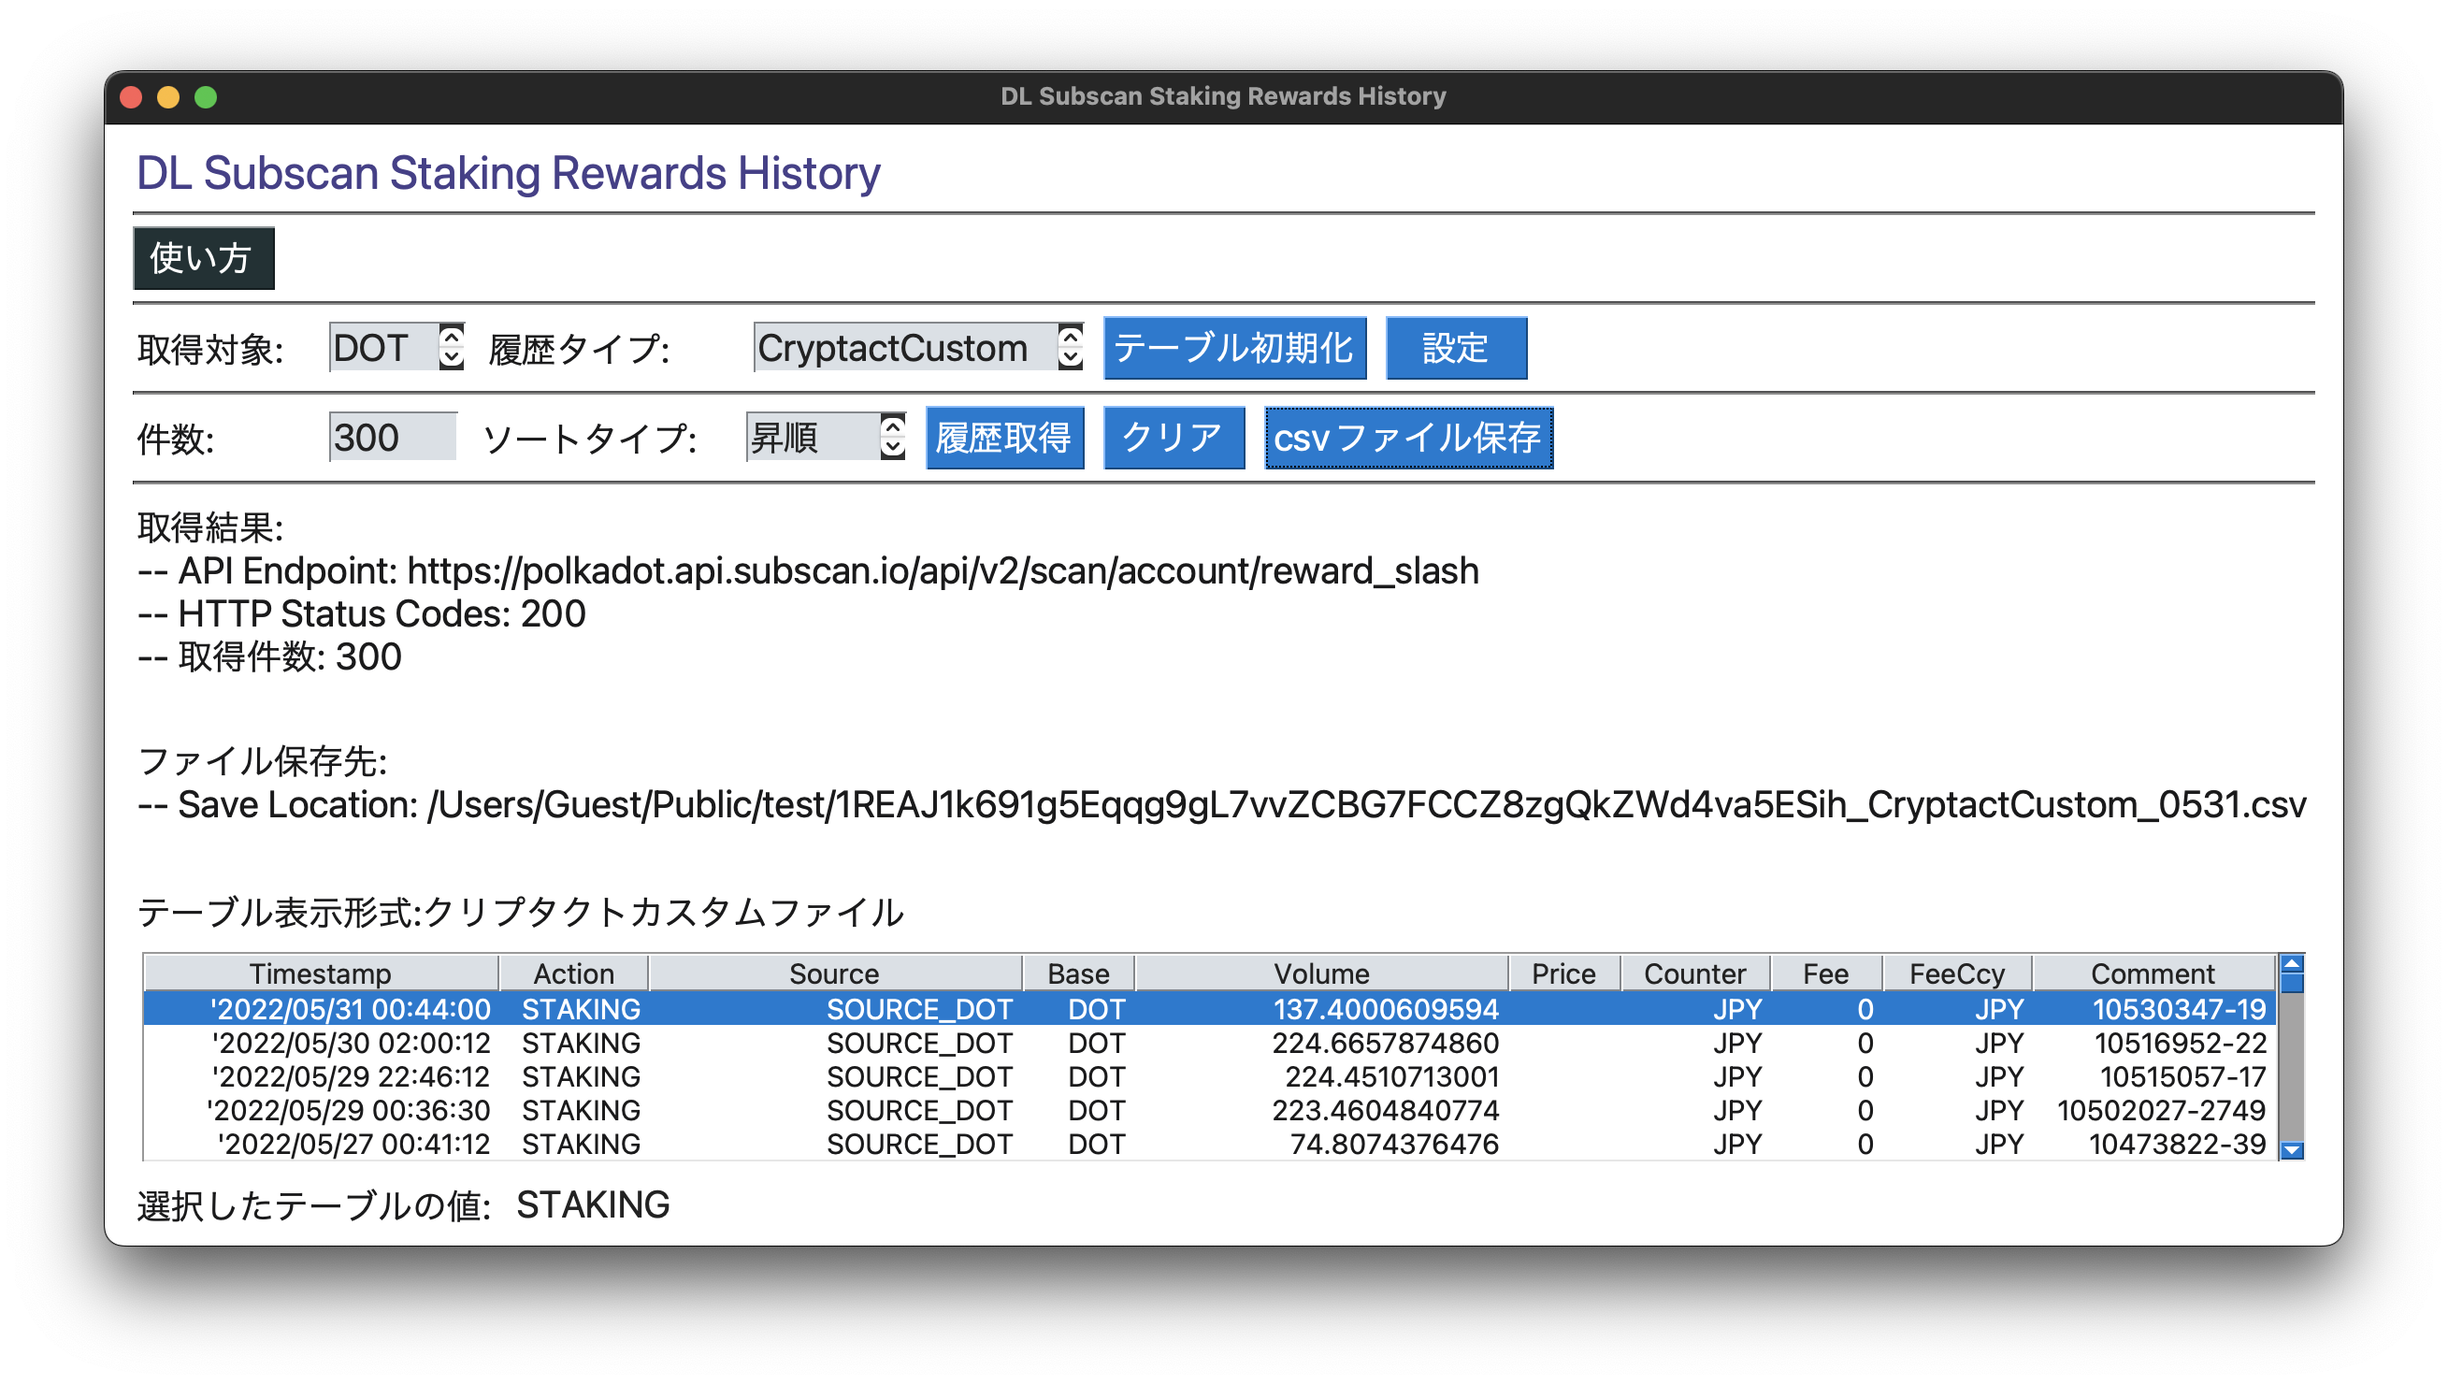
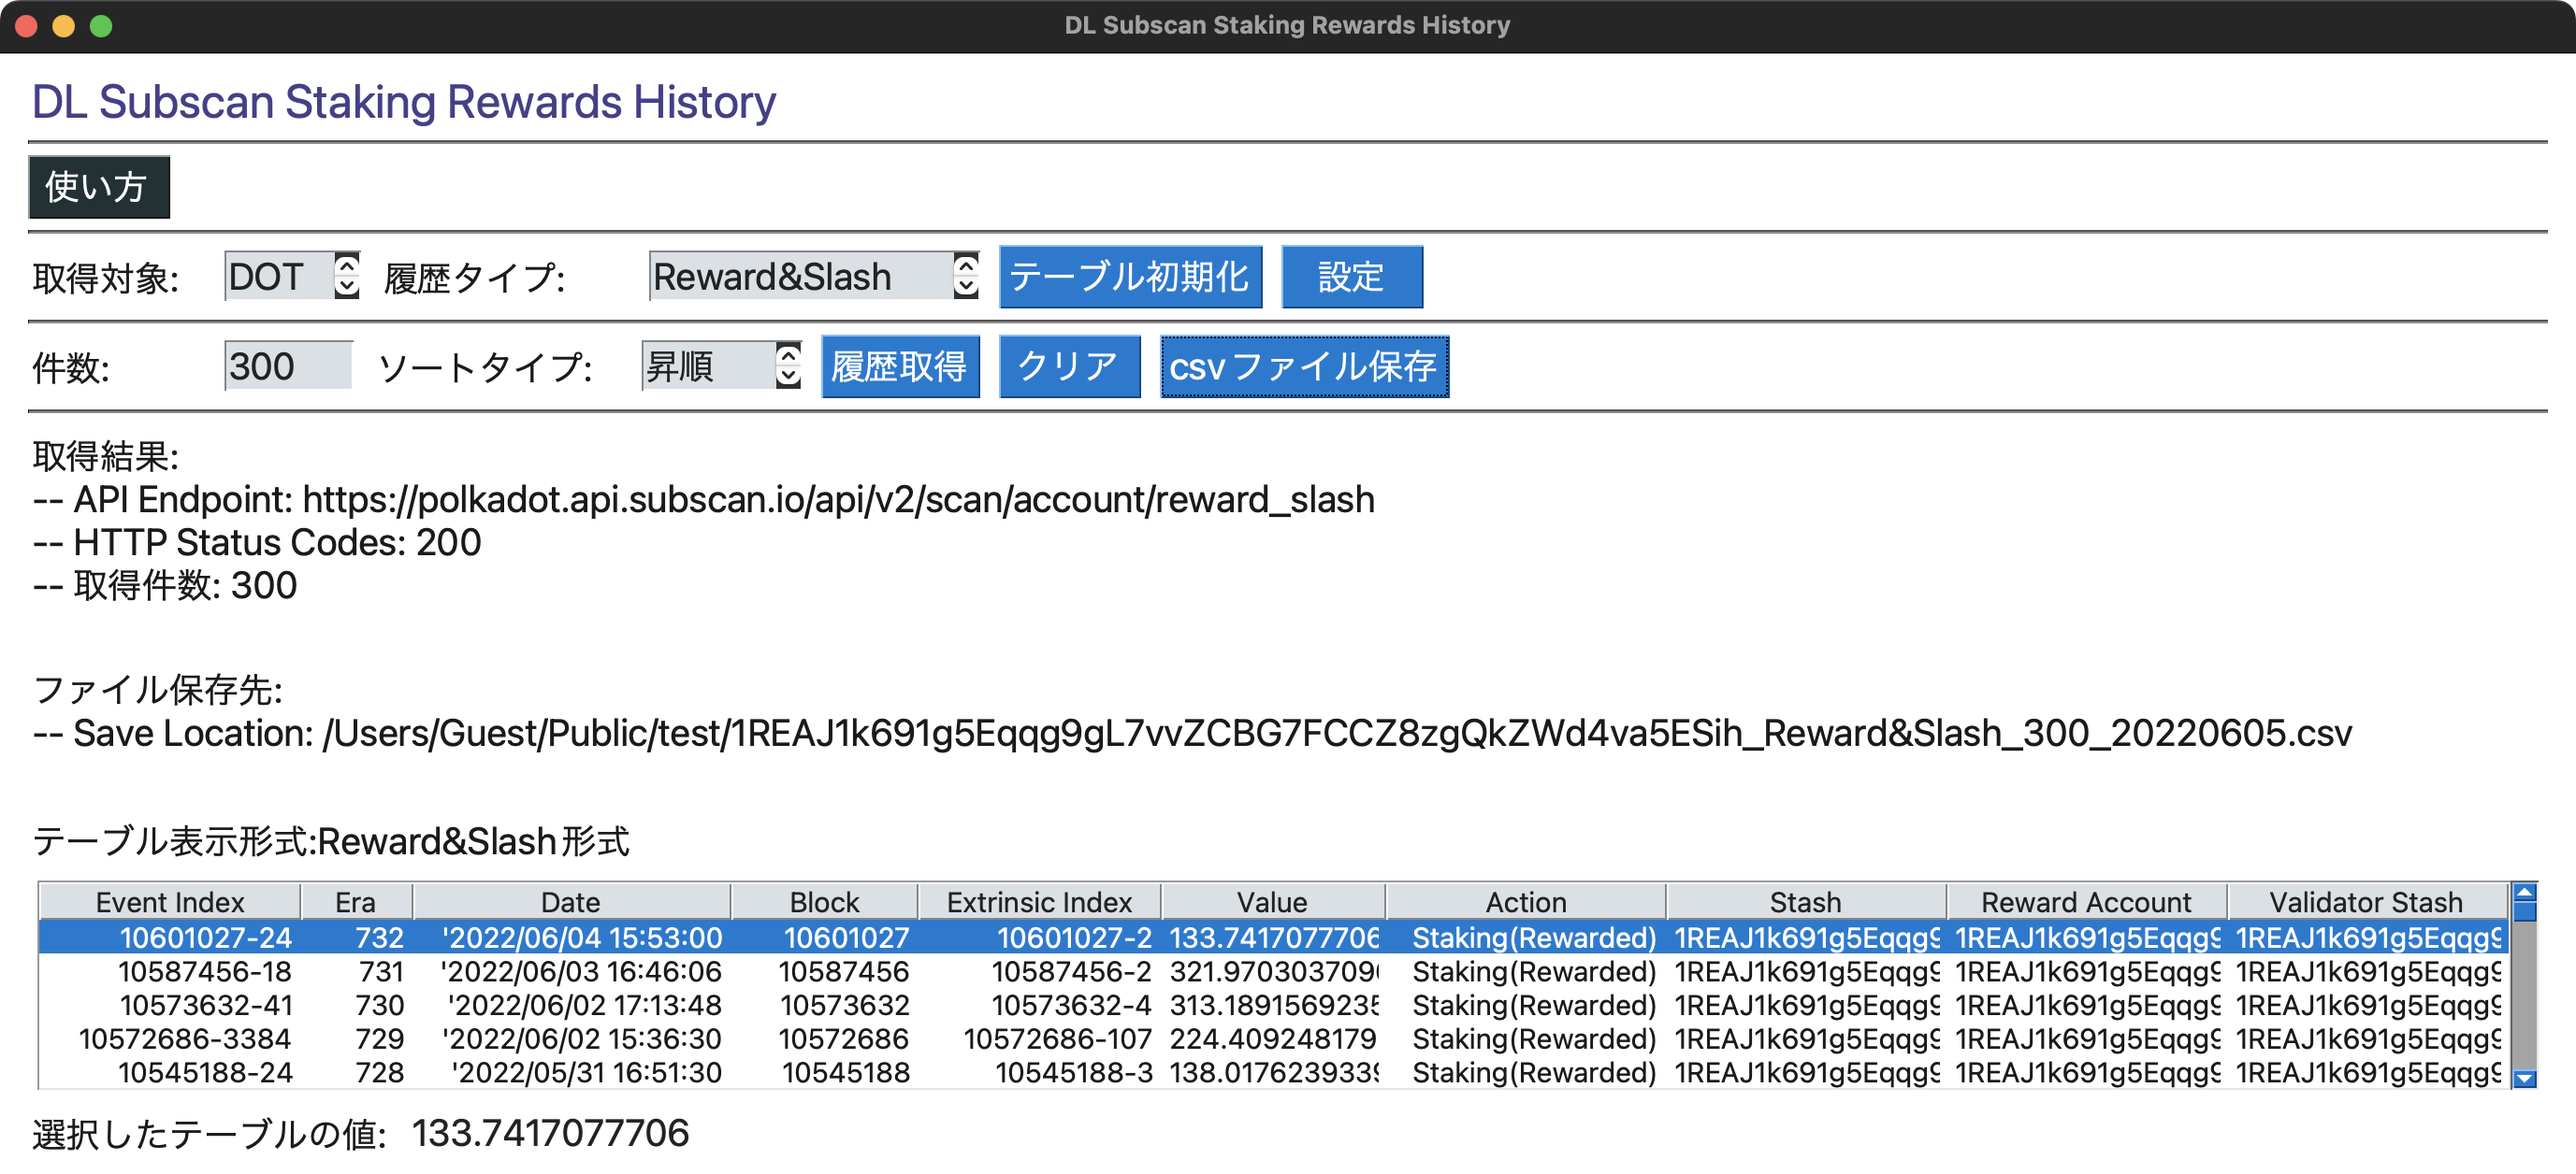
Changed the date of transaction history in Reward&Slash from UNIX time to UTC time, modified the layout data, and modified related contents in README.md.

diff --git a/src/subscan.py b/src/subscan.py
@@ -1,7 +1,7 @@
 import json
 import math
 import requests
-import datetime
+from datetime import datetime
 import pandas as pd
 import time
 from cryptact import CryptactInfo
@@ -81,7 +81,7 @@ class SubscanStakingRewardsDataFrame:
         # 9 validator_stash
         self.__event_index     = one_line_headerdata_list[0]
         self.__era             = one_line_headerdata_list[1]
-        self.__date            = one_line_headerdata_list[2]
+        self.__date            = "'" + (datetime.utcfromtimestamp(one_line_headerdata_list[2])).strftime("%Y/%m/%d %H:%M:%S")
         # Blockデータはevent_indexから作成する
         self.__block           = self.__event_index.split('-')[0]
         self.__extrinsic_index = one_line_headerdata_list[3]
@@ -118,7 +118,7 @@ class SubscanStakingRewardsDataFrame:
         # 6 event_id
         # Event IDデータはevent_indexから作成する
         self.__event_id        = one_line_headerdata_list[0]
-        self.__date            = one_line_headerdata_list[1]
+        self.__date            = "'" + (datetime.utcfromtimestamp(one_line_headerdata_list[1])).strftime("%Y/%m/%d %H:%M:%S")
         # Blockデータはevent_indexから作成する
         self.__block           = self.__event_id.split('-')[0]
         self.__extrinsic_index = one_line_headerdata_list[3]
@@ -171,7 +171,7 @@ class SubscanStakingRewardsDataFrameForCryptact(SubscanStakingRewardsDataFrame):
         # 9 validator_stash
         if self.token_data == "DOT" or self.token_data == "KSM":
             self.__event_index        = one_line_headerdata_list[0]
-            self.__date               = "'" + (datetime.datetime.fromtimestamp(one_line_headerdata_list[2])).strftime("%Y/%m/%d %H:%M:%S")
+            self.__date               = "'" + (datetime.fromtimestamp(one_line_headerdata_list[2])).strftime("%Y/%m/%d %H:%M:%S")
             self.__value              = float(one_line_headerdata_list[4]) * adjust_value
             self.__value              = digit.format(self.__value)
             self.__one_line_data_list = [self.__date,action,source,base,self.__value,\
@@ -184,7 +184,7 @@ class SubscanStakingRewardsDataFrameForCryptact(SubscanStakingRewardsDataFrame):
         # 5 module_id
         elif self.token_data == "ASTR":
             self.__event_id           = one_line_headerdata_list[0]
-            self.__date               = "'" + (datetime.datetime.fromtimestamp(one_line_headerdata_list[1])).strftime("%Y/%m/%d %H:%M:%S")
+            self.__date               = "'" + (datetime.fromtimestamp(one_line_headerdata_list[1])).strftime("%Y/%m/%d %H:%M:%S")
             self.__value              = float(one_line_headerdata_list[4]) * adjust_value
             self.__value              = digit.format(self.__value)
             self.__one_line_data_list = [self.__date,action,source,base,self.__value,\

diff --git a/src/main.py b/src/main.py
@@ -10,7 +10,7 @@ class SgWindowProcess:
         # iniファイルから設定を読み込む
         self.__font_info = '游ゴシック Medium'
         self.__config = configparser.ConfigParser()
-        self.__config.read('config.ini')
+        self.__config.read('./config.ini')
         self.__config_subscan_api_info = self.__config['subscan_api_info']
         self.__config_subscan_api_doc  = self.__config_subscan_api_info['subscan_api_doc']
         self.__config_ui_info          = self.__config['ui_info']
@@ -146,7 +146,7 @@ class SgWindowProcess:
                 window = sg_gui.config_window(self.__config_subscan_api_info,values['-TOKEN-'])
             if event == '-CONFIG_UPDATE-':
                 edit = configparser.ConfigParser()
-                edit.read('config.ini')
+                edit.read('./config.ini')
                 edit_subscan = edit['subscan_api_info']
                 address_token_value = f'-SUBSCAN_ADDRESS_{sg_gui.token_data}-'
                 address_token = f'address_{(sg_gui.token_data).lower()}'
@@ -162,10 +162,10 @@ class SgWindowProcess:
                 edit_subscan[decimal_point_adjust_token] = values[decimal_point_adjust_token_value]
 
                 edit_subscan['api_key'] = values['-SUBSCAN_API-']
-                with open('config.ini', 'w') as configfile:
+                with open('./config.ini', 'w') as configfile:
                     edit.write(configfile)
                 window.close()
-                self.__config.read('config.ini')
+                self.__config.read('./config.ini')
                 window = sg_gui.main_window()
             if event == '-CANCEL-':
                 window.close()

diff --git a/src/gui.py b/src/gui.py
@@ -64,13 +64,13 @@ class CreateGui:
             # 列数と列幅をトークン毎に設定する
             if self.__token_data == 'DOT':
                 visible_columns = [vclum for x in range(10)]
-                col_widths_token = [14,6,11,10,13,12,15,15,15,15]
+                col_widths_token = [14,6,17,10,13,12,15,15,15,15]
             elif self.__token_data == 'KSM':
                 visible_columns = [vclum for x in range(9)]
-                col_widths_token = [14,6,11,10,13,12,15,15,15]
+                col_widths_token = [14,6,17,10,13,12,15,15,15]
             elif self.__token_data == 'ASTR':
                 visible_columns = [vclum for x in range(6)]
-                col_widths_token = [11,11,8,15,20,20]
+                col_widths_token = [11,17,8,15,20,20]
             table_layout = sg.Table(    
                 values = data,
                 headings = self.__reward_slash_data_header_token,
@@ -94,7 +94,7 @@ class CreateGui:
                 font=(font_info,15),
                 visible_column_map = visible_columns,
                 # 各列が占める文字数指定(トークン共通)
-                col_widths = [19,8,20,6,20,6,8,6,8,13],
+                col_widths = [17,8,20,6,20,6,8,6,8,13],
                 # Trueにすると列幅が固定になるためFalseとする
                 # https://github.com/PySimpleGUI/PySimpleGUI/issues/4375
                 auto_size_columns = False,
